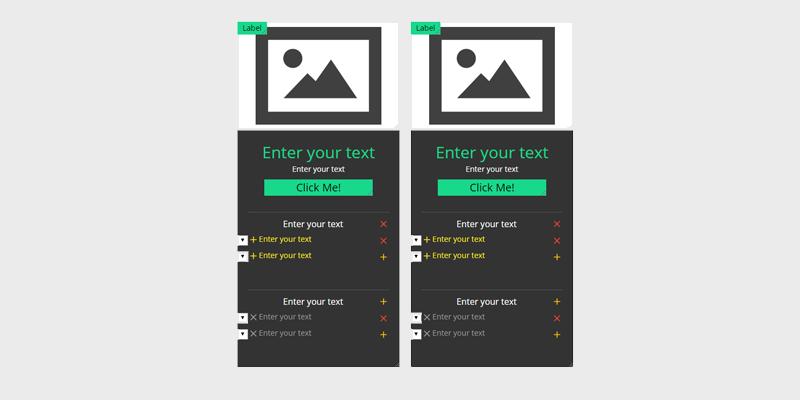
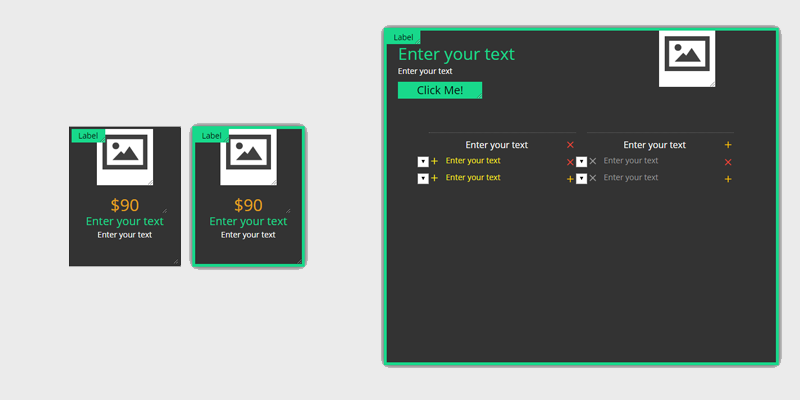
SFC-76 added cover for product

diff --git a/src/store/api.js b/src/store/api.js
@@ -23,10 +23,10 @@ export default {
           }
         },
         {
-          slug: 'ProductsExtend',
+          slug: 'Products',
           theme: {
-            name: 'Products Extend',
-            sections: ['ProductsExtend']
+            name: 'Products',
+            sections: ['Products', 'ProductsExtend']
           }
         }
       ])
